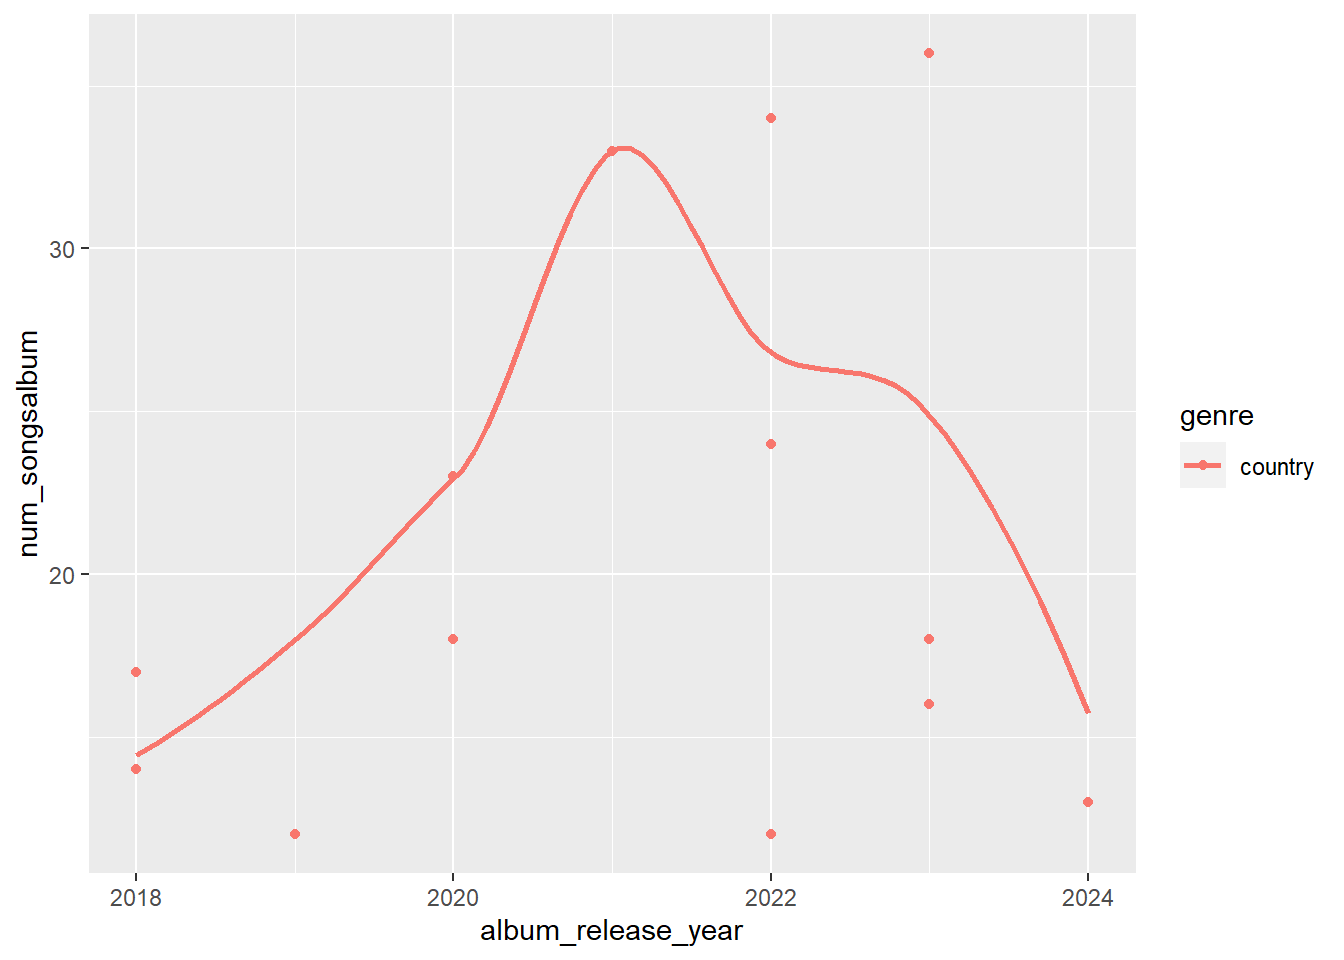
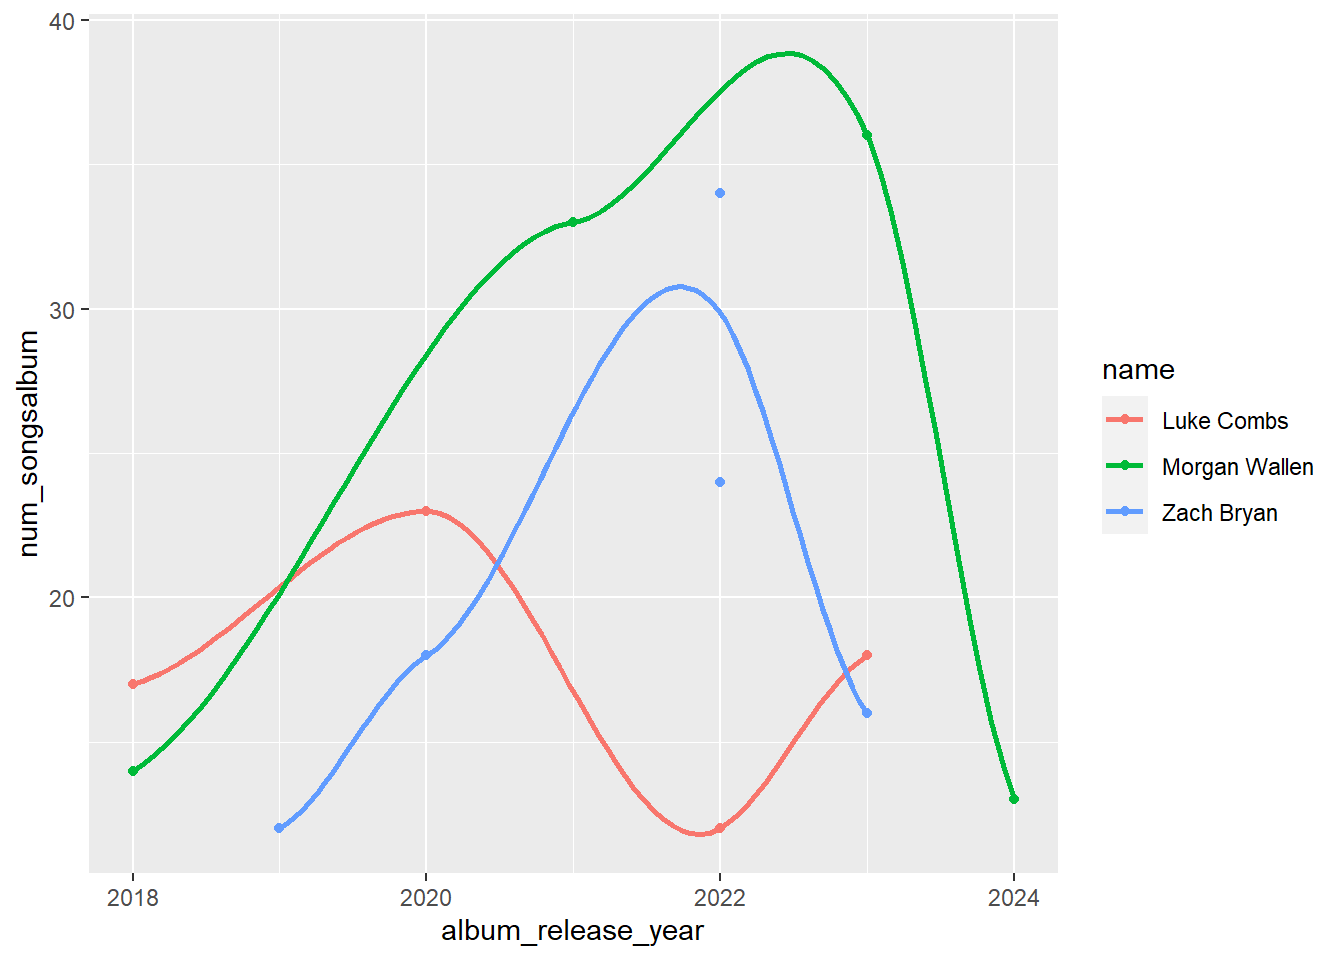
plots

diff --git a/plots.html b/plots.html
@@ -190,21 +190,79 @@ The following object is masked from 'package:readr':
 <span id="cb20-2"><a href="#cb20-2" aria-hidden="true" tabindex="-1"></a>  <span class="fu">filter</span>(genre <span class="sc">==</span> <span class="st">"country"</span>) <span class="sc">|&gt;</span></span>
 <span id="cb20-3"><a href="#cb20-3" aria-hidden="true" tabindex="-1"></a>  <span class="fu">group_by</span>(album_name) <span class="sc">|&gt;</span></span>
 <span id="cb20-4"><a href="#cb20-4" aria-hidden="true" tabindex="-1"></a>  <span class="fu">mutate</span>(<span class="at">num_songsalbum =</span> <span class="fu">n</span>()) <span class="sc">|&gt;</span></span>
-<span id="cb20-5"><a href="#cb20-5" aria-hidden="true" tabindex="-1"></a>  <span class="fu">ggplot</span>(<span class="fu">aes</span>(<span class="at">x =</span> album_release_year, <span class="at">y =</span> num_songsalbum, <span class="at">color =</span> genre)) <span class="sc">+</span></span>
+<span id="cb20-5"><a href="#cb20-5" aria-hidden="true" tabindex="-1"></a>  <span class="fu">ggplot</span>(<span class="fu">aes</span>(<span class="at">x =</span> album_release_year, <span class="at">y =</span> num_songsalbum, <span class="at">color =</span> name)) <span class="sc">+</span></span>
 <span id="cb20-6"><a href="#cb20-6" aria-hidden="true" tabindex="-1"></a>  <span class="fu">geom_point</span>() <span class="sc">+</span></span>
 <span id="cb20-7"><a href="#cb20-7" aria-hidden="true" tabindex="-1"></a>  <span class="fu">geom_smooth</span>(<span class="at">se =</span> F)</span></code><button title="Copy to Clipboard" class="code-copy-button"><i class="bi"></i></button></pre></div>
 <div class="cell-output cell-output-stderr">
 <pre><code>`geom_smooth()` using method = 'loess' and formula = 'y ~ x'</code></pre>
 </div>
+<div class="cell-output cell-output-stderr">
+<pre><code>Warning in simpleLoess(y, x, w, span, degree = degree, parametric = parametric,
+: pseudoinverse used at 2018</code></pre>
+</div>
+<div class="cell-output cell-output-stderr">
+<pre><code>Warning in simpleLoess(y, x, w, span, degree = degree, parametric = parametric,
+: neighborhood radius 4.025</code></pre>
+</div>
+<div class="cell-output cell-output-stderr">
+<pre><code>Warning in simpleLoess(y, x, w, span, degree = degree, parametric = parametric,
+: reciprocal condition number 1.1019e-16</code></pre>
+</div>
+<div class="cell-output cell-output-stderr">
+<pre><code>Warning in simpleLoess(y, x, w, span, degree = degree, parametric = parametric,
+: There are other near singularities as well. 9.1506</code></pre>
+</div>
+<div class="cell-output cell-output-stderr">
+<pre><code>Warning in simpleLoess(y, x, w, span, degree = degree, parametric = parametric,
+: pseudoinverse used at 2018</code></pre>
+</div>
+<div class="cell-output cell-output-stderr">
+<pre><code>Warning in simpleLoess(y, x, w, span, degree = degree, parametric = parametric,
+: neighborhood radius 5.03</code></pre>
+</div>
+<div class="cell-output cell-output-stderr">
+<pre><code>Warning in simpleLoess(y, x, w, span, degree = degree, parametric = parametric,
+: reciprocal condition number 2.9303e-16</code></pre>
+</div>
+<div class="cell-output cell-output-stderr">
+<pre><code>Warning in simpleLoess(y, x, w, span, degree = degree, parametric = parametric,
+: There are other near singularities as well. 9.1809</code></pre>
+</div>
+<div class="cell-output cell-output-stderr">
+<pre><code>Warning in simpleLoess(y, x, w, span, degree = degree, parametric = parametric,
+: pseudoinverse used at 2019</code></pre>
+</div>
+<div class="cell-output cell-output-stderr">
+<pre><code>Warning in simpleLoess(y, x, w, span, degree = degree, parametric = parametric,
+: neighborhood radius 3.02</code></pre>
+</div>
+<div class="cell-output cell-output-stderr">
+<pre><code>Warning in simpleLoess(y, x, w, span, degree = degree, parametric = parametric,
+: reciprocal condition number 1.6846e-16</code></pre>
+</div>
+<div class="cell-output cell-output-stderr">
+<pre><code>Warning in simpleLoess(y, x, w, span, degree = degree, parametric = parametric,
+: There are other near singularities as well. 9.1204</code></pre>
+</div>
 <div class="cell-output-display">
 <p><img src="plots_files/figure-html/unnamed-chunk-4-8.png" class="img-fluid" width="672"></p>
 </div>
-<div class="sourceCode cell-code" id="cb22"><pre class="sourceCode r code-with-copy"><code class="sourceCode r"><span id="cb22-1"><a href="#cb22-1" aria-hidden="true" tabindex="-1"></a>songs <span class="sc">|&gt;</span></span>
-<span id="cb22-2"><a href="#cb22-2" aria-hidden="true" tabindex="-1"></a>  <span class="fu">filter</span>(genre <span class="sc">==</span> <span class="st">"hip-hop"</span>) <span class="sc">|&gt;</span></span>
-<span id="cb22-3"><a href="#cb22-3" aria-hidden="true" tabindex="-1"></a>  <span class="fu">ggplot</span>(<span class="fu">aes</span>(<span class="at">x =</span> album_release_year, <span class="at">y =</span> duration_ms)) <span class="sc">+</span></span>
-<span id="cb22-4"><a href="#cb22-4" aria-hidden="true" tabindex="-1"></a>  <span class="fu">geom_point</span>()</span></code><button title="Copy to Clipboard" class="code-copy-button"><i class="bi"></i></button></pre></div>
+<div class="sourceCode cell-code" id="cb34"><pre class="sourceCode r code-with-copy"><code class="sourceCode r"><span id="cb34-1"><a href="#cb34-1" aria-hidden="true" tabindex="-1"></a>songs <span class="sc">|&gt;</span></span>
+<span id="cb34-2"><a href="#cb34-2" aria-hidden="true" tabindex="-1"></a>  <span class="fu">filter</span>(genre <span class="sc">==</span> <span class="st">"hip-hop"</span>) <span class="sc">|&gt;</span></span>
+<span id="cb34-3"><a href="#cb34-3" aria-hidden="true" tabindex="-1"></a>  <span class="fu">ggplot</span>(<span class="fu">aes</span>(<span class="at">x =</span> album_release_year, <span class="at">y =</span> duration_ms)) <span class="sc">+</span></span>
+<span id="cb34-4"><a href="#cb34-4" aria-hidden="true" tabindex="-1"></a>  <span class="fu">geom_point</span>() <span class="sc">+</span> </span>
+<span id="cb34-5"><a href="#cb34-5" aria-hidden="true" tabindex="-1"></a>  <span class="fu">geom_smooth</span>(<span class="at">se =</span> F)</span></code><button title="Copy to Clipboard" class="code-copy-button"><i class="bi"></i></button></pre></div>
+<div class="cell-output cell-output-stderr">
+<pre><code>`geom_smooth()` using method = 'gam' and formula = 'y ~ s(x, bs = "cs")'</code></pre>
+</div>
 <div class="cell-output-display">
 <p><img src="plots_files/figure-html/unnamed-chunk-4-9.png" class="img-fluid" width="672"></p>
+</div>
+<div class="sourceCode cell-code" id="cb36"><pre class="sourceCode r code-with-copy"><code class="sourceCode r"><span id="cb36-1"><a href="#cb36-1" aria-hidden="true" tabindex="-1"></a>songs <span class="sc">|&gt;</span></span>
+<span id="cb36-2"><a href="#cb36-2" aria-hidden="true" tabindex="-1"></a>  <span class="fu">ggplot</span>(<span class="fu">aes</span>(<span class="at">x =</span> tempo, <span class="at">y =</span> danceability, <span class="at">color =</span> genre)) <span class="sc">+</span></span>
+<span id="cb36-3"><a href="#cb36-3" aria-hidden="true" tabindex="-1"></a>  <span class="fu">geom_point</span>()</span></code><button title="Copy to Clipboard" class="code-copy-button"><i class="bi"></i></button></pre></div>
+<div class="cell-output-display">
+<p><img src="plots_files/figure-html/unnamed-chunk-4-10.png" class="img-fluid" width="672"></p>
 </div>
 </div>
 
